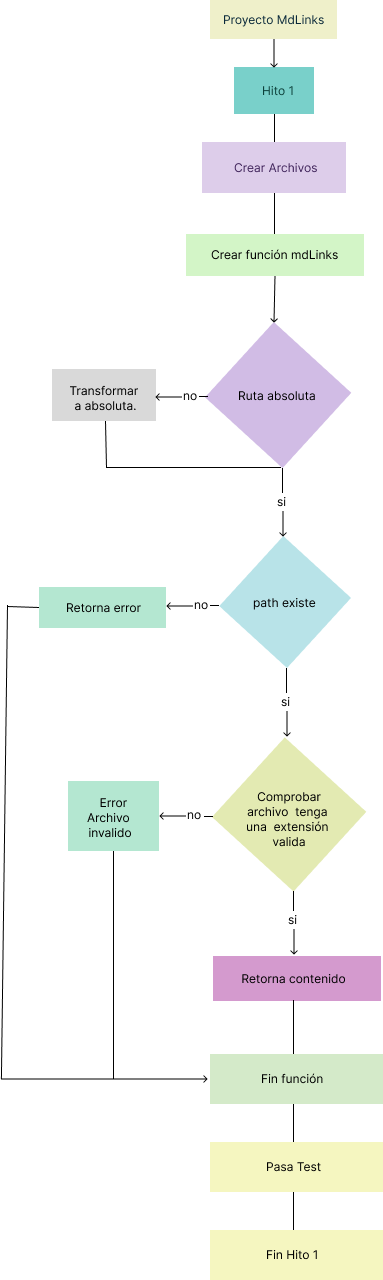
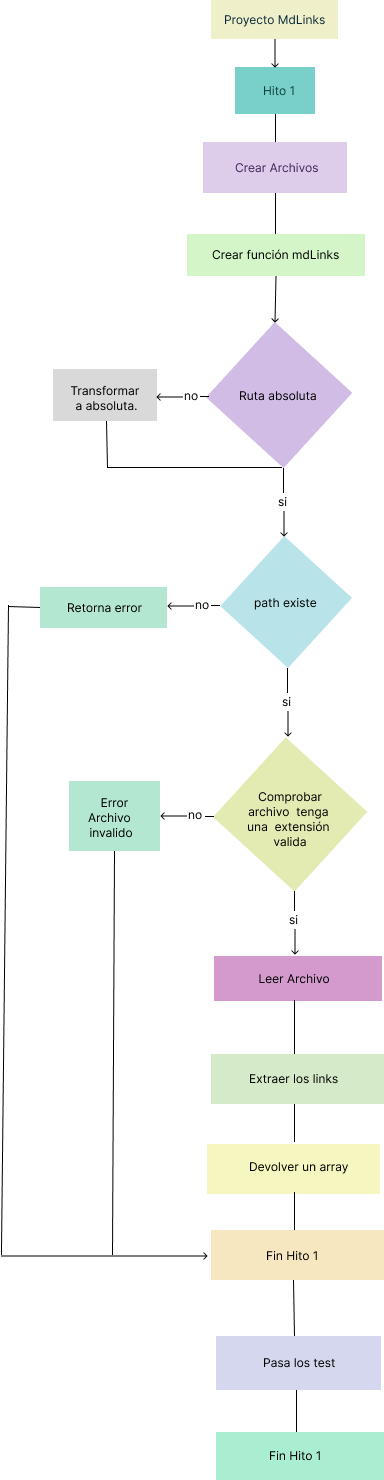
Funcion mdLink

diff --git a/test/md-links.spec.js b/test/md-links.spec.js
@@ -1,4 +1,4 @@
-const mdLinks = require('../');
+const mdLinks = require('../src/index');
 
 
 describe('mdLinks', () => {
@@ -7,4 +7,19 @@ describe('mdLinks', () => {
     console.log('FIX ME!');
   });
 
+});
+
+describe('mdLinks', () => {
+  it('debería ser una función', () => {
+    expect(typeof mdLinks).toBe('function');
+  });
+  //it('debería devolver una promesa', () => {
+  //  expect (mdLinks()).toBe(typeof Promise);
+  //});
+  it('debe rechazar cuando el path no existe ', () => {
+    //expect(typeof mdLinks).toBe('Promise');
+    return mdLinks('/documentos/prueba/noexiste.md').catch((error) => {
+      expect(error).toBe("La ruta no existe");
+    });
+  });
 });

diff --git a/src/index.js b/src/index.js
@@ -1,3 +1,19 @@
-module.exports = () => {
-  // ...
-};
+const fs = require('fs');
+const path = require('path'); 
+
+const mdLinks = (path, options) => {
+  return new Promise((resolve, reject) => {
+    // identifica si la ruta existe
+    if (fs.existsSync(path)) {
+
+
+      // Resuelve la promesa con algún resultado
+      resolve(/* resultado */);
+    }else {
+      // si no existe la Ruta rechaza la promesa con un mensaje error
+      reject('La ruta no existe')
+    }
+  })
+}
+
+module.exports = mdLinks;

diff --git a/src/cli.js b/src/cli.js
@@ -1,0 +1,2 @@
+#!/usr/bin/env node
+const mdLinks = require('./index');
